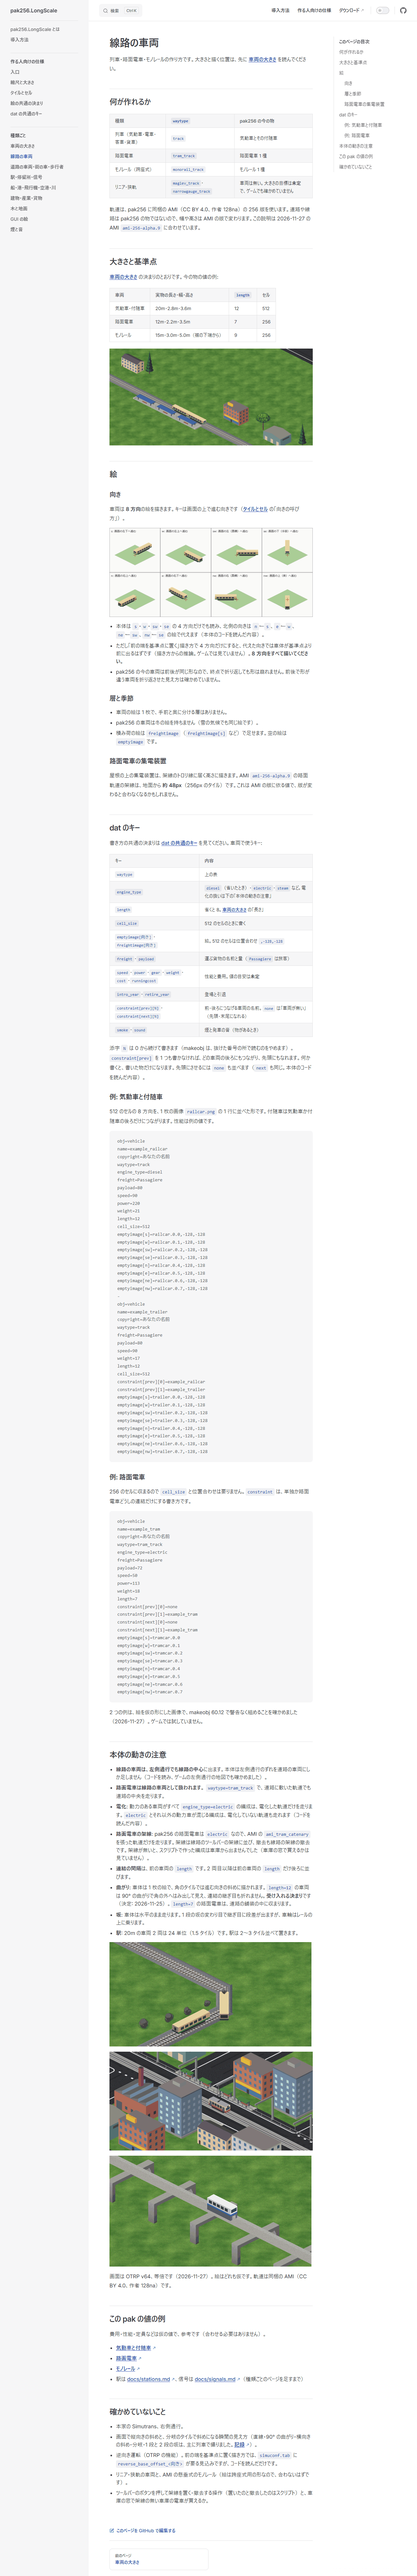
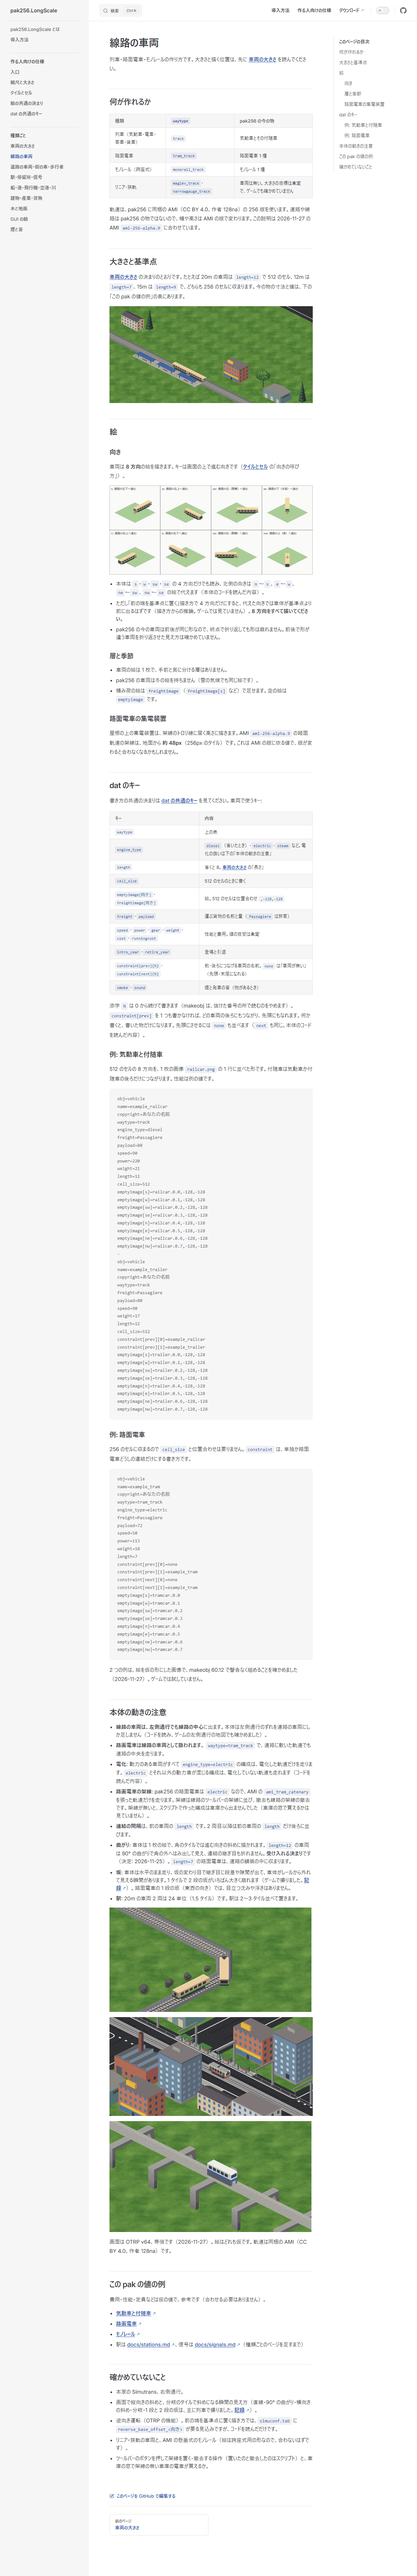
図の端の切れと坂の書き方を直し、ページの画面を全体で撮り直す (#204)
線路の車両のページの値の表は docs/vehicles.md と重なるので、規則から出る例の文にした。

Changed region(s): [[0.25, 0.0934, 0.75, 0.9965], [0.7188, 0.2803, 0.75, 0.3114]]

diff --git a/site/figures/draw_spec_figures.py b/site/figures/draw_spec_figures.py
@@ -164,9 +164,9 @@ def vehicle_position():
     half = 3.9 / TILE_M / 2  # 幅 3.9m（2.8m × 1.40）
     for ox, title, heading, label in (
         (20, "e（右下へ進む。軸の向き）", (1.0, 0.0), "length 12 = 19.8m"),
-        (560, "ne（右へ進む。横の斜め）", (math.sqrt(0.5), -math.sqrt(0.5)), "length 12 = 画面で約 136px"),
+        (520, "ne（右へ進む。横の斜め）", (math.sqrt(0.5), -math.sqrt(0.5)), "length 12 = 画面で約 136px（図は 0.75 倍）"),
     ):
-        k = 1.0
+        k = 0.75  # 3×2 のタイルが半分の幅に収まる倍率
         cx, cy = ox + 300, 300  # 基準点（タイルの中心）
 
         def p(x, y):

diff --git a/site/spec/vehicle-rail.md b/site/spec/vehicle-rail.md
@@ -15,13 +15,7 @@
 
 ## 大きさと基準点
 
-[車両の大きさ](./vehicle-size.md) の決まりのとおりです。今の物の値の例:
-
-| 車両 | 実物の長さ・幅・高さ | `length` | セル |
-|---|---|---|---|
-| 気動車・付随車 | 20m・2.8m・3.6m | 12 | 512 |
-| 路面電車 | 12m・2.2m・3.5m | 7 | 256 |
-| モノレール | 15m・3.0m・5.0m（裾の下端から） | 9 | 256 |
+[車両の大きさ](./vehicle-size.md) の決まりのとおりです。たとえば 20m の車両は `length=12` で 512 のセル、12m は `length=7`、15m は `length=9` で、どちらも 256 のセルに収まります。今の物の寸法と値は、下の「この pak の値の例」の表にあります。
 
 ![線路の駅に停まる 20m の車両 2 両と、街の建物と木を並べた画面](/spec/scale-rail.png)
 
@@ -154,7 +148,7 @@ emptyimage[nw]=tramcar.0.7
 - **路面電車の架線**: pak256 の路面電車は `electric` なので、AMI の `ami_tram_catenary` を張った軌道だけを走ります。架線は線路のツールバーの架線に並び、撤去も線路の架線の撤去です。架線が無いと、スクリプトで作った編成は車庫から出ませんでした（車庫の窓で買えるかは見ていません）。
 - **連結の間隔**は、前の車両の `length` です。2 両目以降は前の車両の `length` だけ後ろに並びます。
 - **曲がり**: 車体は 1 枚の絵で、角のタイルでは進む向きの斜めに描かれます。`length=12` の車両は 90° の曲がりで角の外へはみ出して見え、連結の継ぎ目も折れません。**受け入れる決まり**です（決定: 2026-11-25）。`length=7` の路面電車は、道路の舗装の中に収まります。
-- **坂**: 車体は水平のまま走ります。1 段の坂の変わり目で継ぎ目に段差が出ますが、車輪はレールの上に乗ります。
+- **坂**: 車体は水平のまま走り、坂の変わり目で継ぎ目に段差や隙間が出て、車体がレールから外れて見える瞬間があります。1 タイルで 2 段の坂がいちばん大きく崩れます（ゲームで撮りました。[記録](https://github.com/128-bit-net/pak256/blob/main/docs/records/2026-11-27_standards-8-2.md)）。路面電車の 1 段の坂（東西の向き）では、目立つ沈みや浮きはありません。
 - **駅**: 20m の車両 2 両は 24 単位（1.5 タイル）です。駅は 2〜3 タイル並べて置きます。
 
 ![曲がりの角を通る気動車と付随車](/spec/rail-curve.png)

diff --git a/docs/records/2026-11-27_spec-rail-vehicles.md b/docs/records/2026-11-27_spec-rail-vehicles.md
@@ -18,6 +18,8 @@
 
 ## 本体のコードで確かめた事（OTRP の fork を読んだだけ）
 
+- `waytype` の名前: `track`・`tram_track`・`monorail_track`・`maglev_track`・`narrowgauge_track`（`descriptor/writer/get_waytype.cc`）。
+
 - 向きの絵の代わり: 画像が無い向きは `dir - 4`（`descriptor/vehicle_desc.h` の画像の取り出し）。
 - 連結の指定: `constraint` が 1 つも無ければ何でもつながる。`none` は車両の無い参照（`can_follow`・`can_lead`）。
 - 電化: 動力のある車両がすべて `electric` の編成だけが電化した軌道を要る（`simconvoi.cc` の `check_electrification`）。
